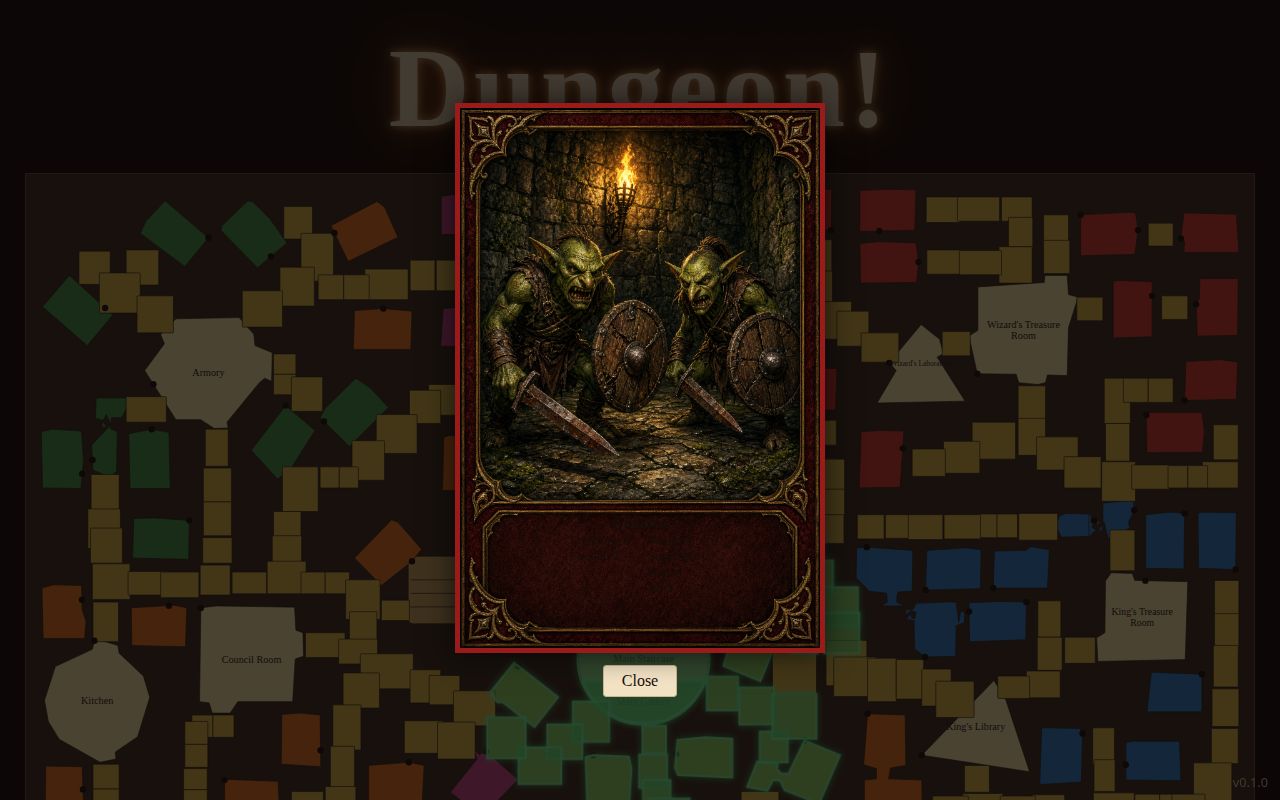
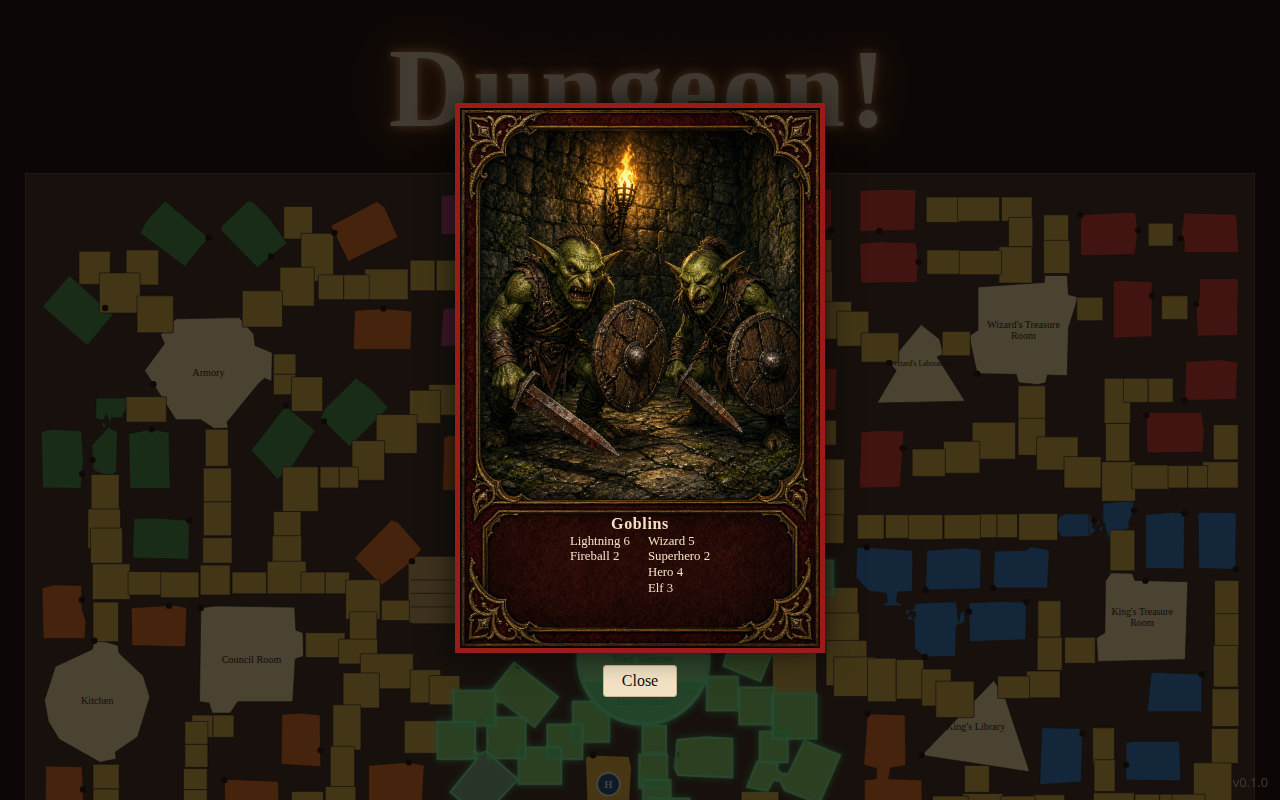
Use parchment caption ink on the Goblins dark-red stats box.
The real-turn overlay already rendered the name and numbers. Goblins
art is dark red there, so shared dark ink vanished. Caption ink now
lives on the per-card stats-box; Goblins uses parchment, the others
stay dark.

diff --git a/src/cards/lookup-monster-card.ts b/src/cards/lookup-monster-card.ts
@@ -1,6 +1,9 @@
+export type CaptionInk = "dark" | "parchment";
+
 export type MonsterStatsBox = {
   topPercent: number;
   heightPercent: number;
+  ink: CaptionInk;
 };
 
 export type MonsterCardAssets = {
@@ -20,21 +23,28 @@ type CatalogEntry = {
 const DEFAULT_STATS_BOX: MonsterStatsBox = {
   topPercent: 74.8,
   heightPercent: 16,
+  ink: "dark",
 };
 
 const PLAIN_CARD_STATS_BOX: MonsterStatsBox = {
   topPercent: 22,
   heightPercent: 56,
+  ink: "dark",
 };
 
 const catalog: CatalogEntry[] = [
-  { level: 1, name: "Goblins", hasClip: true },
+  {
+    level: 1,
+    name: "Goblins",
+    hasClip: true,
+    statsBox: { ...DEFAULT_STATS_BOX, ink: "parchment" },
+  },
   { level: 1, name: "Hobgoblins", hasClip: true },
   {
     level: 1,
     name: "Giant Lizard",
     hasClip: true,
-    statsBox: { topPercent: 67, heightPercent: 19 },
+    statsBox: { topPercent: 67, heightPercent: 19, ink: "dark" },
   },
   { level: 1, name: "Giant Rats", hasClip: false, hasArt: false },
   { level: 1, name: "Skeleton", hasClip: false, hasArt: false },

diff --git a/src/cards/lookup-monster-card.test.ts b/src/cards/lookup-monster-card.test.ts
@@ -34,21 +34,29 @@ describe("lookupMonsterCard", () => {
     expect(assets.clipHref ?? "").toContain("L1-giant-lizard.mp4");
   });
 
-  it("uses the default parchment stats-box for goblins and hobgoblins", () => {
+  it("uses parchment caption ink on the Goblins dark-red stats box", () => {
     expect(lookupMonsterCard(1, "Goblins").statsBox).toEqual({
       topPercent: 74.8,
       heightPercent: 16,
+      ink: "parchment",
     });
+  });
+
+  it("uses the default dark ink on parchment stats-boxes", () => {
     expect(lookupMonsterCard(1, "Hobgoblins").statsBox).toEqual({
       topPercent: 74.8,
       heightPercent: 16,
+      ink: "dark",
     });
+    expect(lookupMonsterCard(1, "Giant Lizard").statsBox.ink).toBe("dark");
+    expect(lookupMonsterCard(1, "Skeleton").statsBox.ink).toBe("dark");
   });
 
   it("uses a taller, higher stats-box for giant lizard", () => {
     expect(lookupMonsterCard(1, "Giant Lizard").statsBox).toEqual({
       topPercent: 67,
       heightPercent: 19,
+      ink: "dark",
     });
   });
 

diff --git a/src/dungeon-session.test.ts b/src/dungeon-session.test.ts
@@ -44,6 +44,28 @@ describe("DungeonSession", () => {
     ).toBe(false);
   });
 
+  it("shows a readable Goblins caption after a real gold-room draw", () => {
+    const session = new DungeonSession(
+      dungeonBoard,
+      dungeonLayout,
+      heroPiece,
+      new MonsterDeck(["Goblins"]),
+    );
+    const svg = session.element();
+    document.body.append(svg);
+    clickHighlight(svg, "room-south");
+    document.querySelector("[data-skip-clip]")?.dispatchEvent(
+      new MouseEvent("click", { bubbles: true }),
+    );
+
+    const caption = document.querySelector("[data-monster-card-stats]");
+    expect(caption?.textContent?.includes("Goblins")).toBe(true);
+    expect(caption?.textContent?.includes("Lightning 6")).toBe(true);
+    expect(caption?.classList.contains("monster-card-stats-parchment")).toBe(
+      true,
+    );
+  });
+
   it("draws a Level 1 monster when the Hero enters a gold room", () => {
     const session = new DungeonSession(
       dungeonBoard,

diff --git a/src/cards/append-monster-card-overlay.test.ts b/src/cards/append-monster-card-overlay.test.ts
@@ -47,13 +47,17 @@ describe("appendMonsterCardOverlay stats caption", () => {
     );
   });
 
-  it("uses the same caption classes for Goblins and Hobgoblins", () => {
+  it("uses parchment caption ink for Goblins and dark ink for Hobgoblins", () => {
     const goblins = statsCaption("Goblins");
     const hobgoblins = statsCaption("Hobgoblins");
 
-    expect(goblins.className).toBe(hobgoblins.className);
-    expect(goblins.getAttribute("data-stats-box")).toBe(
-      hobgoblins.getAttribute("data-stats-box"),
+    expect(goblins.classList.contains("monster-card-stats-parchment")).toBe(
+      true,
+    );
+    expect(goblins.classList.contains("monster-card-stats-ink")).toBe(false);
+    expect(hobgoblins.classList.contains("monster-card-stats-ink")).toBe(true);
+    expect(hobgoblins.classList.contains("monster-card-stats-parchment")).toBe(
+      false,
     );
   });
 

diff --git a/src/cards/append-monster-card-overlay.ts b/src/cards/append-monster-card-overlay.ts
@@ -87,7 +87,11 @@ function statsCaption(
   statsBox: MonsterStatsBox,
 ): HTMLElement {
   const caption = document.createElement("div");
-  caption.className = "monster-card-stats monster-card-stats-ink";
+  const inkClass =
+    statsBox.ink === "parchment"
+      ? "monster-card-stats-parchment"
+      : "monster-card-stats-ink";
+  caption.className = `monster-card-stats ${inkClass}`;
   caption.setAttribute("data-monster-card-stats", "true");
   caption.setAttribute("data-stats-box", "true");
   caption.style.top = `${statsBox.topPercent}%`;

diff --git a/src/style.css b/src/style.css
@@ -160,6 +160,10 @@ body {
   color: var(--ink);
 }
 
+.monster-card-stats-parchment {
+  color: var(--parchment);
+}
+
 .monster-card-stats-name {
   margin: 0 0 0.08em;
   font-size: clamp(0.78rem, 4.6cqi, 1rem);

diff --git a/docs/decisions.md b/docs/decisions.md
@@ -458,6 +458,13 @@ Start, the Main Gallery, and corridors never draw. Other levels and
 chambers do nothing yet. Rooms are not cleared yet, so every entry
 into a gold room draws again. Local G / H / L previews still work.
 
+The Goblins art's stats box is dark red, not parchment, so the shared
+dark `--ink` caption vanished on it. Lookup now carries caption `ink`
+on the same per-card stats-box as the parchment bounds. Goblins uses
+`--parchment` ink; Hobgoblins, Giant Lizard, and the no-art cards stay
+dark on parchment. The real-turn overlay was already rendering the
+caption; it was just unreadable on that art.
+
 https://magisterrex.wordpress.com/2011/04/11/whats-in-that-game-box-dungeon-fantasy-boardgame/
 
 ## DUN-20 — Giant Lizard card and clip (12 Nov 2026)
